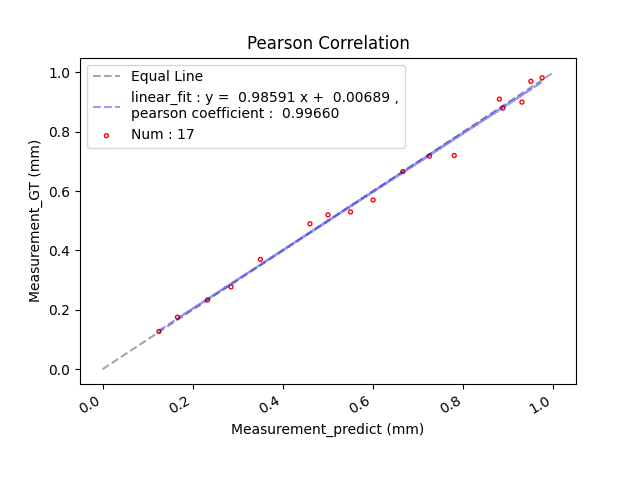
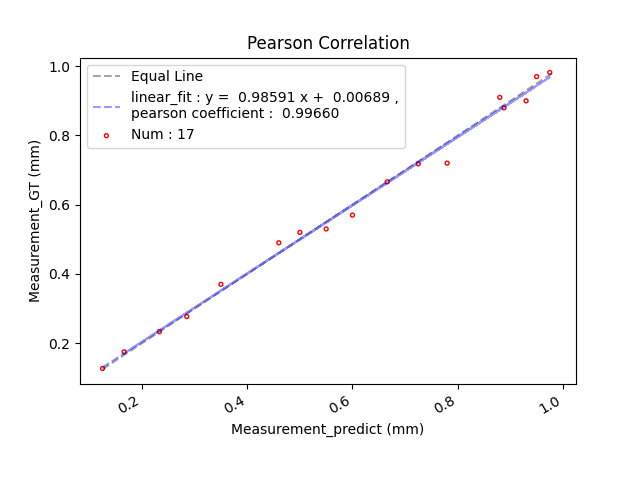
Update equal line.

diff --git a/Python/Correlation_Agreement.py b/Python/Correlation_Agreement.py
@@ -6,7 +6,7 @@ Email: yulvchi@qq.com
 Date: 2022-02-11 14:55:18
 Motto: Entities should not be multiplied unnecessarily.
 LastEditors: Shuangchi He
-LastEditTime: 2022-02-12 12:20:20
+LastEditTime: 2022-02-13 22:28:24
 FilePath: /Correlation_and_Agreement_Analysis/Python/Correlation_Agreement.py
 Description: Statistical Analysis for Pearson Correlation and Bland-Altman Agreement
 '''
@@ -45,7 +45,8 @@ def plot_Pearson_Correlation(X, Y, linefit_TF=False, hist_TF=False,
     fig, ax1 = pl.subplots()
     ax1.scatter(X, Y, s=8, facecolors='none', edgecolors='r', label='Num : %d' % len(X), linewidth=1)
 
-    ax1.plot(range(math.ceil(np.max(X)) + 1), range(math.ceil(np.max(X)) + 1), 'k--', label='Equal Line', alpha=0.35)
+    ax1.plot([np.min(np.concatenate([X, Y])), np.max(np.concatenate([X, Y]))], [
+             np.min(np.concatenate([X, Y])), np.max(np.concatenate([X, Y]))], 'k--', label='Equal Line', alpha=0.35)
 
     if linefit_TF:
         a, b, r = linear_fit(X, Y)  # Linear fit.

diff --git a/Matlab/plot_Pearson_Correlation_Bland_Altman_Agreement.m b/Matlab/plot_Pearson_Correlation_Bland_Altman_Agreement.m
@@ -11,7 +11,7 @@ end
 fig1 = figure;
 plot(X, Y, 'or', 'MarkerSize', 4, 'LineWidth', 1)
 hold on;
-plot(min(X):0.05:(max(X)+0.05), min(X):0.05:(max(X)+0.05), 'k--');
+plot([min(min(X), min(Y)), max(max(X), max(Y))], [min(min(X), min(Y)), max(max(X), max(Y))], 'k--');
 linear_fit = polyfit(X, Y, 1);  % Linear fit.
 r = corr(X, Y);
 plot(X, X .* linear_fit(1) + linear_fit(2), 'b--');
